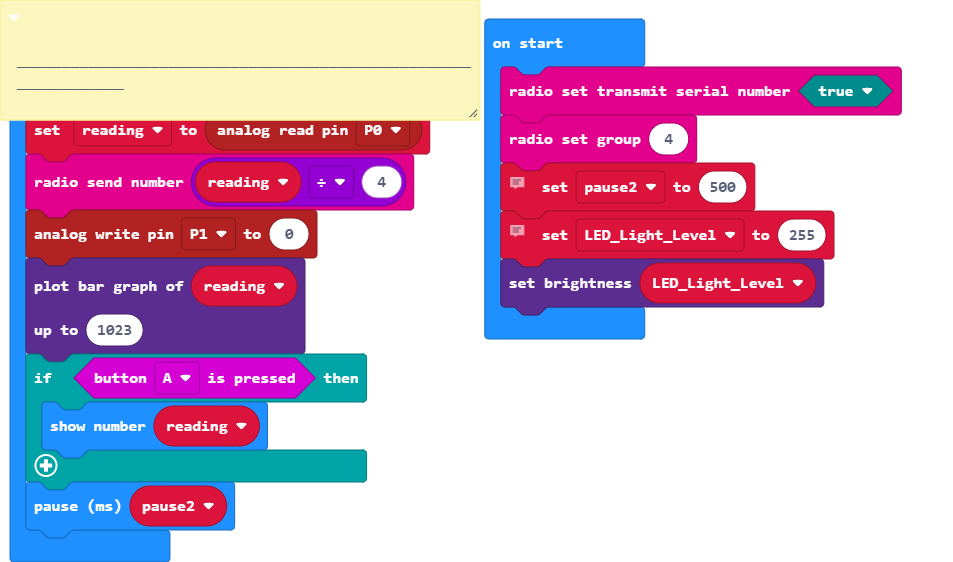
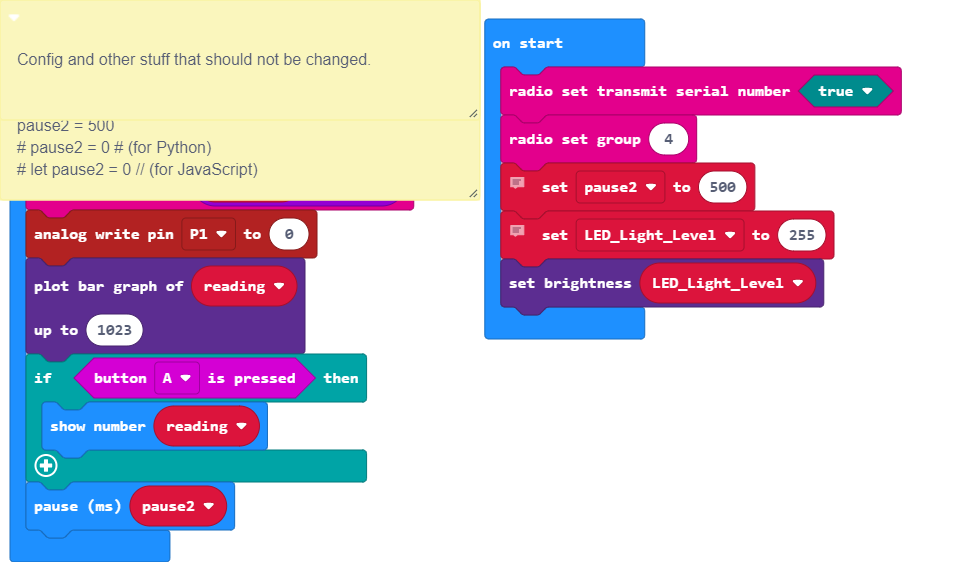
Update pxt.json, main.blocks, main.ts, main.py

Changed region(s): [[0.0, 0.2117, 0.5173, 0.363], [0.0, 0.0907, 0.3956, 0.121]]

diff --git a/main.ts b/main.ts
@@ -1,4 +1,4 @@
-//  Config and other stuff that should not be changed. 
+//  Config and other stuff that should not be changed.
 let reading = 0
 radio.setTransmitSerialNumber(true)
 radio.setGroup(4)

diff --git a/main.py b/main.py
@@ -1,4 +1,4 @@
-# Config and other stuff that should not be changed. 
+# Config and other stuff that should not be changed.
 reading = 0
 radio.set_transmit_serial_number(True)
 radio.set_group(4)
@@ -15,13 +15,15 @@ LED_Light_Level = 255
 led.set_brightness(LED_Light_Level)
 # _______________________________________________________________
 
-'''
+
+"""
 Coding across multiple goddamn coding languages in a pain the ass honestly.
 Damn Example Below:
 pause2 = 500
 # pause2 = 0 # (for Python)
 # let pause2 = 0 // (for JavaScript)
-'''
+"""
+
 # Just the script.
 def on_forever():
     global reading
@@ -34,3 +36,4 @@ def on_forever():
         basic.show_number(reading)
     basic.pause(pause2)
 basic.forever(on_forever)
+
